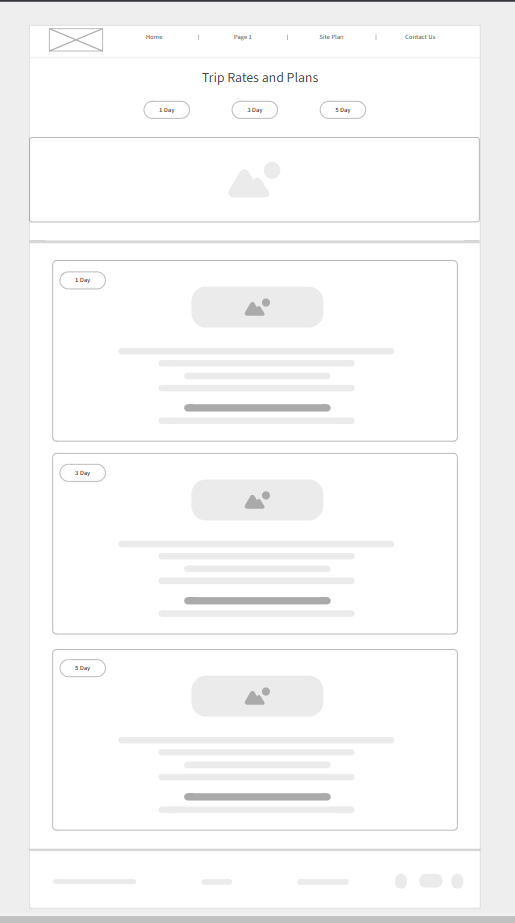
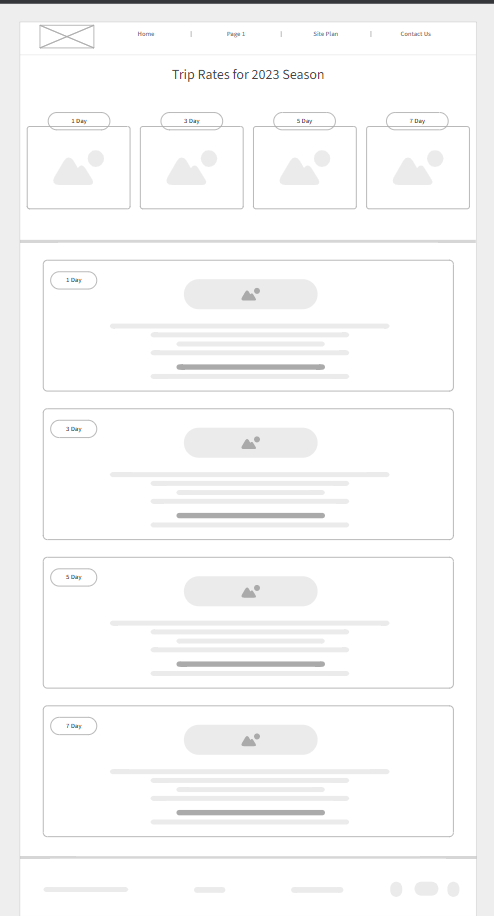
new pics for pg 2 rates + Wireframe

diff --git a/wwr/site-plan-rafting.html b/wwr/site-plan-rafting.html
@@ -103,7 +103,7 @@
     <div class="sitemap">
       <div class="sm-home">Home</div>
       <div class="sm-page2">
-        [Rates]
+        Rates
         <!-- this page will have a name later -->
       </div>
       <div class="sm-page3">Contact Us</div>
@@ -122,7 +122,7 @@
 
     <h3>Rates</h3>
 
-    
+    <img src="https://github.com/willhamina/wdd130/commit/ea10f6a8afd20123c81e8cbef09a076f1104be57#diff-f35b04db10550bdf0b90f44d82e8bbb93c45ecf8434d8a71f80f09524c641468" alt="pg2wireframe.png"/> 
 
     <!-- <img src="#" alt="page 2 wireframe"> -->
   </main>
